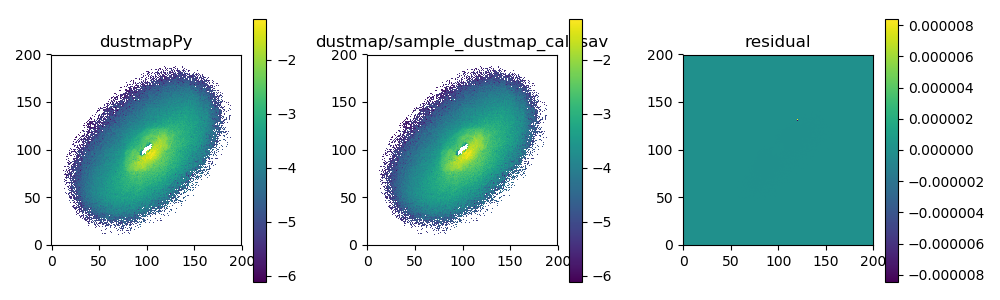
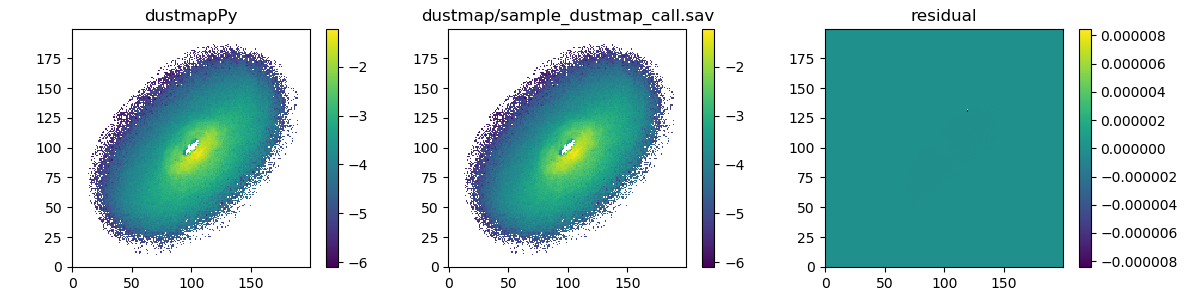
fix fig dimensions

diff --git a/test_map.py b/test_map.py
@@ -81,7 +81,7 @@ try:
     import scipy.io
     idl_dustmap_file="dustmap/sample_dustmap_call.sav"
     IDL=scipy.io.readsav(idl_dustmap_file)
-    plt.figure(figsize=[10,3])
+    plt.figure(figsize=[12,3])
     plt.subplot(131)
     plt.title("dustmapPy")
     plt.imshow(np.log10(hist),origin="upper left",interpolation="none")
